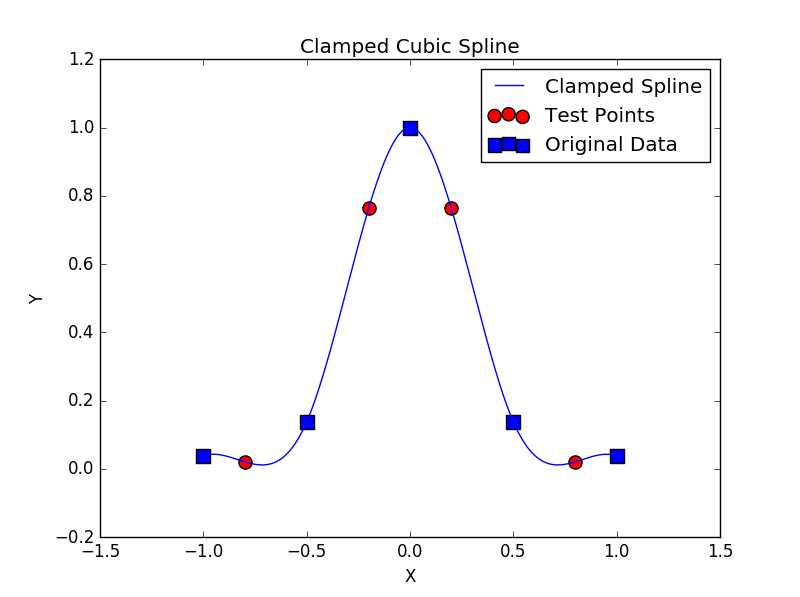
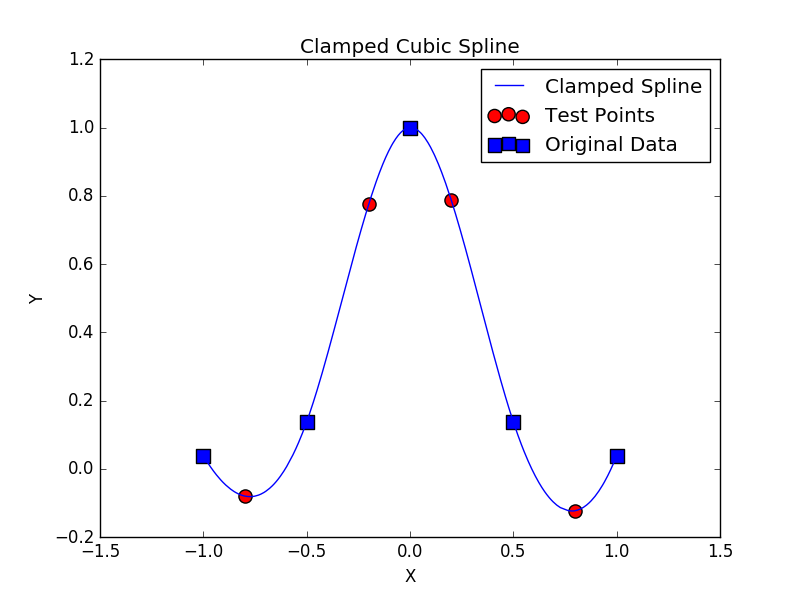
Fixed Clamped Spline

diff --git a/PeriodicCubicSpline.py b/PeriodicCubicSpline.py
@@ -26,16 +26,21 @@ H = []
 for i in range(len(h)-1):
     row = [0 for t in range(i)] + [h[i],2*(h[i]+h[i+1]),h[i+1]] + [0 for t in range(len(h)-2-i)]
     H.append(row)
-
 import numpy as np
+H = np.array(H)
 
 # Periodic Spline
 G = [0] + G + [0]
-H = [ [2*(h[-1]+h[0]),h[0]] + [0 for t in range(len(h)-2)] + [h[-1]] ] + H + [ [h[-1]] + [0 for t in range(len(h)-2)] + [h[-2],2*(h[-2]+h[-1])] ]
+print H
+# H = np.delete(H,np.s_[-1],axis=1)
+# H = np.delete(H,np.s_[-1],axis=0)
+print H
+H = H.tolist()
+H = [ [2*(h[-1]+h[0]),h[0]] + [0 for t in range(len(H[0])-3)] + [h[-1]] ] + H + [ [h[-1]] + [0 for t in range(len(H[0])-3)] + [h[-2],2*(h[-2]+h[-1])] ]
 print h
 print np.array(H)
 sigma = np.linalg.solve(H,G).tolist()
-
+# sigma = sigma + [sigma[0]]
 
 A = [sigma[i+1]/(6*h[i]) for i in range(len(h))]
 B = [sigma[i]/(6*h[i]) for i in range(len(h))]

diff --git a/ClampedCubicSpline.py b/ClampedCubicSpline.py
@@ -30,8 +30,8 @@ for i in range(len(h)-1):
 import numpy as np
 
 # Clamped Spline
-G = [0] + G + [0]
-H = [ [2*(h[0]),h[0]] + [0 for t in range(len(h)-1)] ] + H + [ [0 for t in range(len(h)-1)] + [h[-1],2*(h[-1])] ]
+G = [6*(g[0]-so)] + G + [6*(-g[-1]+sn)]
+H = [ [2*(h[0]),h[0]] + [0 for t in range(len(H[0])-2)] ] + H + [ [0 for t in range(len(H[0])-2)] + [h[-1],2*(h[-1])] ]
 print H
 sigma = np.linalg.solve(H,G).tolist()
 
